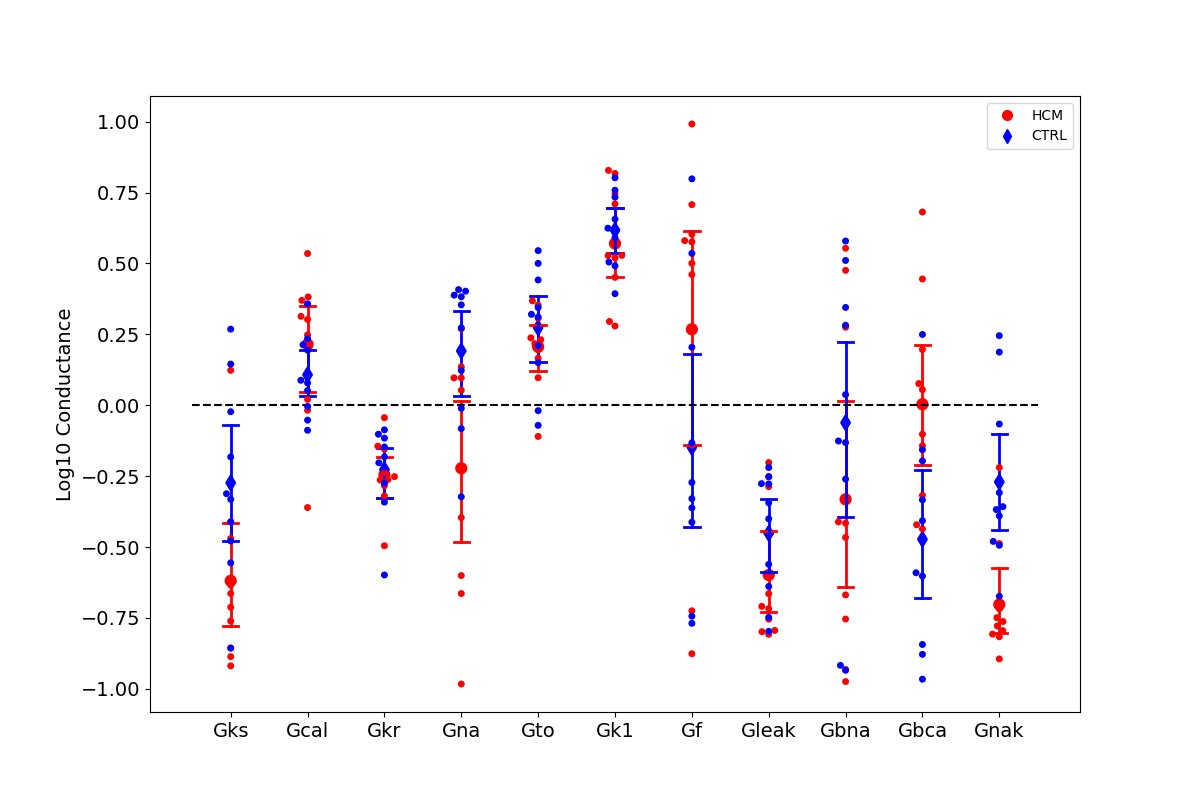
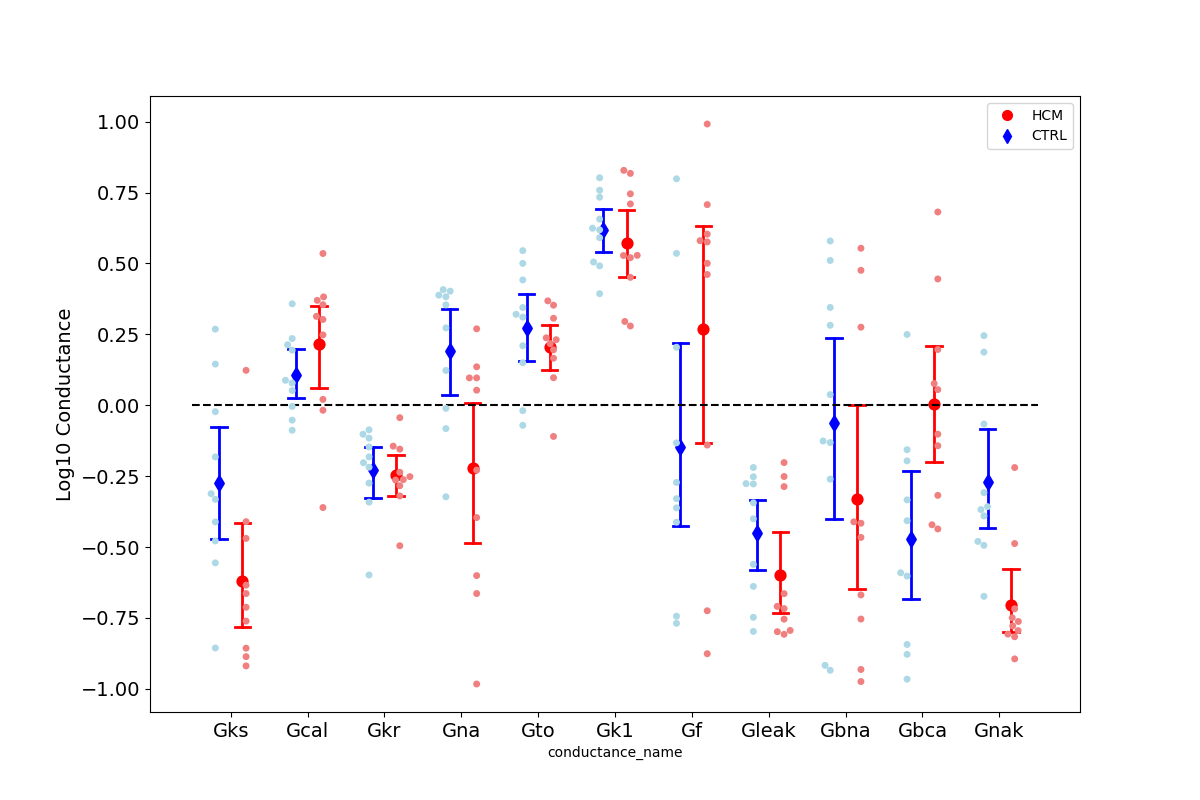
newplot

diff --git a/GA_bNa_bCa_NaK/bar_plot.py b/GA_bNa_bCa_NaK/bar_plot.py
@@ -38,15 +38,18 @@ for ind in pop_CTRL:
 '''data_ctrl = pd.DataFrame(all_ind_dict)
 data_ctrl.to_excel('Cond_CTRL.xlsx', sheet_name='Sheet1',index=False)'''
 
-df_hcm = pd.read_excel('Cond_HCM.xlsx')
-df_ctrl = pd.read_excel('Cond_CTRL.xlsx')
+df_all = pd.read_excel('conductances.xlsx')
 
 plt.figure(figsize=(12,8))
 
-sns.swarmplot(df_hcm, palette=sns.color_palette(['red','red','red','red','red','red','red','red','red','red','red']))
-sns.swarmplot(df_ctrl, palette=sns.color_palette(['blue','blue','blue','blue','blue','blue','blue','blue','blue','blue','blue']))
-sns.pointplot(df_hcm, join=False, capsize=.2, color='red', markers='o', errwidth=2)
-sns.pointplot(df_ctrl, join=False, capsize=.2, color='blue', markers='d', errwidth=2)
+#sns.pointplot(df_hcm, join=False, capsize=.2, color='red', markers='o', errwidth=2)
+#sns.pointplot(df_ctrl, join=False, capsize=.2, color='blue', markers='d', errwidth=2)
+#sns.swarmplot(df_hcm, palette=sns.color_palette(['lightcoral','lightcoral','lightcoral','lightcoral','lightcoral','lightcoral','lightcoral','lightcoral']))
+#sns.swarmplot(df_ctrl, palette=sns.color_palette(['lightblue','lightblue','lightblue','lightblue','lightblue','lightblue','lightblue','lightblue']))
+
+
+sns.swarmplot(df_all, x='conductance_name', y='parameter_value', hue='cell_type', palette=sns.color_palette(['lightblue','lightcoral']), dodge=True)
+sns.pointplot(df_all, x='conductance_name', y='parameter_value', hue='cell_type',join=False, capsize=.2, palette=sns.color_palette(['blue','red']), markers=['d','o'], errwidth=2, dodge=0.3)
 
 red_circle = mlines.Line2D([], [], color='red', marker='o', linestyle='None', markersize=7, label='HCM')
 blue_diamond = mlines.Line2D([], [], color='blue', marker='d', linestyle='None', markersize=7, label='CTRL')
@@ -59,12 +62,13 @@ plt.ylabel('Log10 Conductance', fontsize=14)
 plt.savefig('Bar_Cat_conductances.png')
 plt.show()
 
-################################################################################
+#######################################################################################
 
 plt.figure(figsize=(12,8))
 
-sns.pointplot(df_hcm, join=False, capsize=.2, color='red', markers='o', errwidth=2)
-sns.pointplot(df_ctrl, join=False, capsize=.2, color='blue', markers='d', errwidth=2)
+#sns.pointplot(df_hcm, join=False, capsize=.2, color='red', markers='o', errwidth=2)
+#sns.pointplot(df_ctrl, join=False, capsize=.2, color='blue', markers='d', errwidth=2)
+sns.pointplot(df_all, x='conductance_name', y='parameter_value', hue='cell_type',join=False, capsize=.2, palette=sns.color_palette(['blue','red']), markers=['d','o'], errwidth=2, dodge=0.3)
 
 red_circle = mlines.Line2D([], [], color='red', marker='o', linestyle='None', markersize=7, label='HCM')
 blue_diamond = mlines.Line2D([], [], color='blue', marker='d', linestyle='None', markersize=7, label='CTRL')
@@ -74,6 +78,7 @@ plt.hlines(0, -.5, (len(keys)-.5), colors='black', linestyle='--')
 plt.xticks(fontsize=14)
 plt.yticks(fontsize=14)
 plt.ylabel('Log10 Conductance', fontsize=14)
+plt.xlabel(xlabel=None)
 plt.savefig('Bar_conductances.png')
 plt.show()
 
